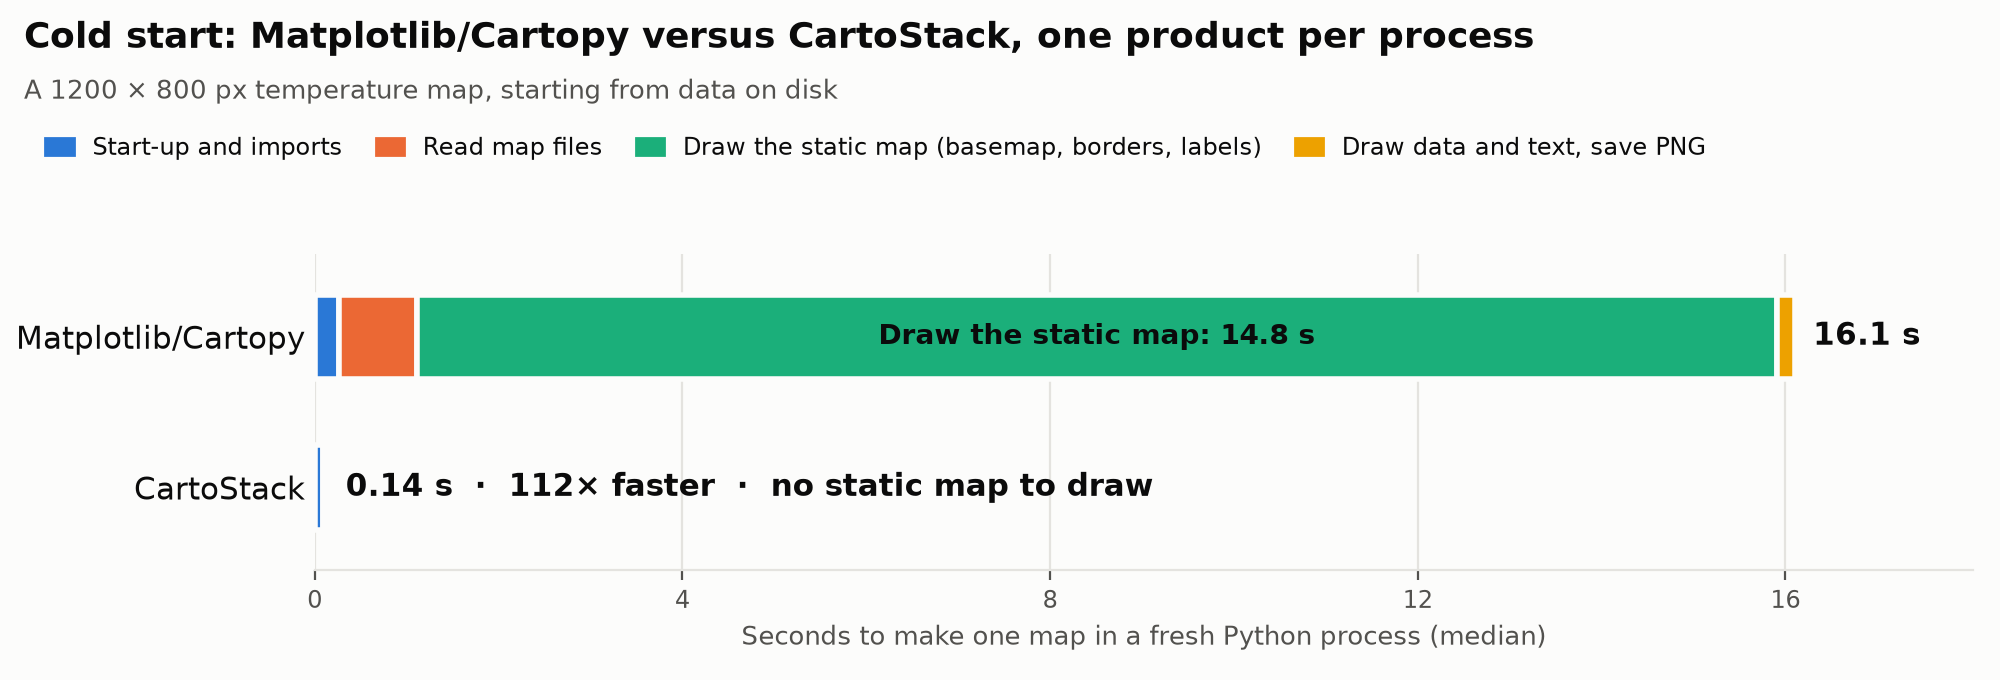
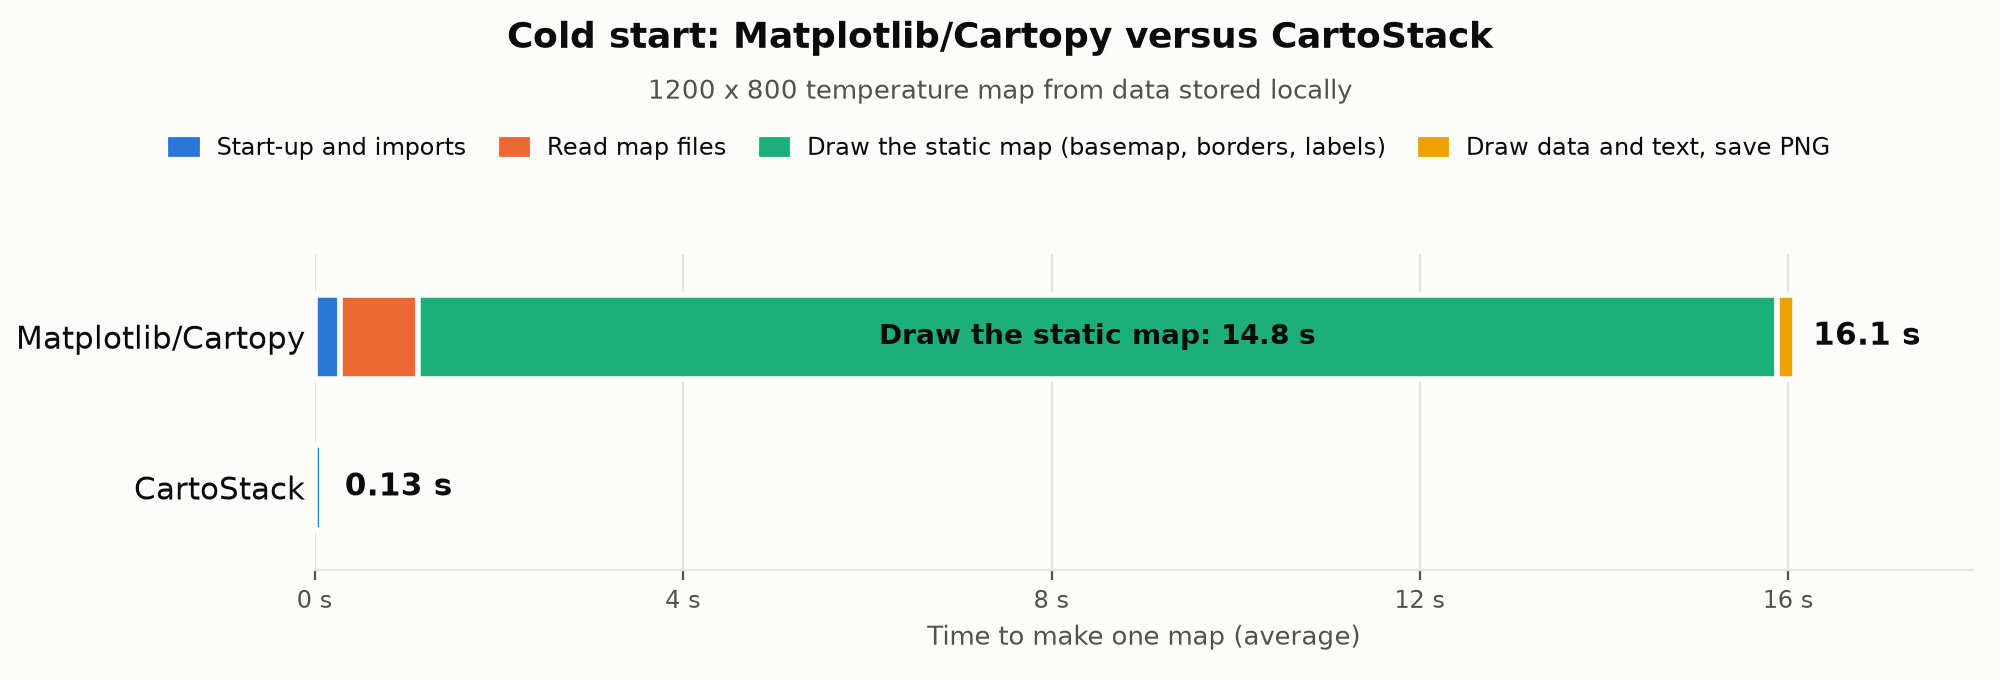
udpated readme graphic

diff --git a/benchmarks/report.py b/benchmarks/report.py
@@ -774,50 +774,81 @@ README_PARTS = (
 )
 
 
+README_RUNS = 10  # the README figure averages exactly this many fresh-process runs per side
+
+
+def mean_phases(rec) -> dict:
+    """Mean over runs of each phase; the phases of a run sum to its total, so these sum to the mean."""
+    return {ph: statistics.mean(r["phases_s"].get(ph, 0.0) + sum(p["phases_s"].get(ph, 0.0) for p in r["products"])
+                                for r in rec["runs"]) for ph in PHASES}
+
+
 def fig_readme_cold(records, out: Path) -> None:
-    """README figure: the grid map's cold product, split into broad parts, with no footer."""
+    """README figures (linear and log axis): the grid map's cold product, mean of 10 runs, no footer."""
     base = pick(records, "cartopy-baseline", "grid", "cold-process")
     pkg = pick(records, "package", "grid", "cold-process")
     if base is None or pkg is None:
         SKIPPED.append("readme_cold_start.png: needs the grid baseline and package cold runs")
         return
-    fig, ax = plt.subplots(figsize=(10, 3.4))
-    ax.set_axisbelow(True)
-    rows = [("Matplotlib/Cartopy", base), ("CartoStack", pkg)]
-    base_total = run_totals(base)["median"]
-    for y, (label, rec) in zip((1, 0), rows, strict=True):
-        phases = median_phases(rec)
-        scale = run_totals(rec)["median"] / sum(phases.values())  # parts sum to the median total
-        left = 0.0
-        for color, (_, keys) in zip(SLOTS, README_PARTS, strict=False):
-            width = sum(phases[k] for k in keys) * scale
-            if width > 0:
-                ax.barh(y, width, left=left, height=0.56, color=color, edgecolor=SURFACE, linewidth=2)
-            if keys == ("static",) and width > base_total * 0.3:
-                ax.text(left + width / 2, y, f"Draw the static map: {width:.1f} s", ha="center",
-                        va="center", fontsize=10, color=INK, fontweight="bold")
-            left += width
-        total = run_totals(rec)["median"]
-        text = f"{total:.1f} s" if rec is base else f"{total:.2f} s  ·  {base_total / total:.0f}× faster  ·  no static map to draw"
-        ax.text(left + base_total * 0.012, y, text, va="center", fontsize=11, color=INK, fontweight="bold")
-    ax.set_yticks([1, 0], [r[0] for r in rows], fontsize=11, color=INK)
-    ax.tick_params(axis="y", length=0)
-    ax.set_xlim(0, base_total * 1.12)
-    ax.set_xticks(np.arange(0, base_total * 1.12, 4))
-    ax.set_ylim(-0.55, 1.55)
-    ax.set_xlabel("Seconds to make one map in a fresh Python process (median)", fontsize=9.5)
-    ax.grid(axis="y", visible=False)
-    ax.spines["left"].set_visible(False)
-    handles = [Patch(color=c, label=name) for c, (name, _) in zip(SLOTS, README_PARTS, strict=False)]
-    fig.legend(handles=handles, loc="upper left", ncol=4, bbox_to_anchor=(0.012, 0.83), fontsize=8.5,
-               handlelength=1.2, columnspacing=1.4)
-    fig.suptitle("Cold start: Matplotlib/Cartopy versus CartoStack, one product per process",
-                 x=0.012, y=0.97, ha="left", fontsize=13, fontweight="bold")
-    fig.text(0.012, 0.865, "A 1200 × 800 px temperature map, starting from data on disk", ha="left",
-             va="center", fontsize=9.5, color=INK_2)
-    fig.tight_layout(rect=(0, 0, 1, 0.76))
-    fig.savefig(out / "readme_cold_start.png", dpi=200)
-    plt.close(fig)
+    if {len(base["runs"]), len(pkg["runs"])} != {README_RUNS}:
+        SKIPPED.append(f"readme_cold_start.png: needs {README_RUNS} cold runs per side, got "
+                       f"{len(base['runs'])} (Cartopy) and {len(pkg['runs'])} (CartoStack)")
+        return
+    rows = [("Matplotlib/Cartopy", mean_phases(base)), ("CartoStack", mean_phases(pkg))]
+    for log in (False, True):
+        fig, ax = plt.subplots(figsize=(10, 3.4 if not log else 3.0))
+        ax.set_axisbelow(True)
+        base_total = sum(rows[0][1].values())
+        for y, (_, phases) in zip((1, 0), rows, strict=True):
+            total = sum(phases.values())
+            if log:
+                # Stacked parts would be distorted on a log axis, so it shows totals as dots.
+                ax.scatter([total], [y], s=110, color=SLOTS[0], edgecolor=SURFACE, linewidth=2, zorder=3)
+                ax.text(total * 1.25, y, fmt_time(total), va="center", fontsize=11, color=INK, fontweight="bold")
+                continue
+            left = 0.0
+            for color, (_, keys) in zip(SLOTS, README_PARTS, strict=False):
+                width = sum(phases[k] for k in keys)
+                if width > 0:
+                    ax.barh(y, width, left=left, height=0.56, color=color, edgecolor=SURFACE, linewidth=2)
+                if keys == ("static",) and width > base_total * 0.3:
+                    ax.text(left + width / 2, y, f"Draw the static map: {width:.1f} s", ha="center",
+                            va="center", fontsize=10, color=INK, fontweight="bold")
+                left += width
+            ax.text(left + base_total * 0.012, y, fmt_time(total), va="center", fontsize=11, color=INK,
+                    fontweight="bold")
+        ax.set_yticks([1, 0], [r[0] for r in rows], fontsize=11, color=INK)
+        ax.tick_params(axis="y", length=0)
+        if log:
+            ax.set_xscale("log")
+            ax.set_xlim(0.05, 50)
+            ticks = [0.1, 1, 10]
+            ax.set_xticks(ticks, [f"{t:g} s" for t in ticks])
+            ax.xaxis.set_minor_formatter(plt.NullFormatter())
+        else:
+            ax.set_xlim(0, base_total * 1.12)
+            ticks = np.arange(0, base_total * 1.12, 4)
+            ax.set_xticks(ticks, [f"{t:g} s" for t in ticks])
+        ax.set_ylim(-0.55, 1.55)
+        ax.set_xlabel("Time to make one map (average)", fontsize=9.5)
+        ax.grid(axis="y", visible=False)
+        ax.spines["left"].set_visible(False)
+        top = 0.76 if not log else 0.8
+        if not log:
+            handles = [Patch(color=c, label=name) for c, (name, _) in zip(SLOTS, README_PARTS, strict=False)]
+            fig.legend(handles=handles, loc="upper center", ncol=4, bbox_to_anchor=(0.5, 0.83), fontsize=8.5,
+                       handlelength=1.2, columnspacing=1.4)
+        fig.suptitle("Cold start: Matplotlib/Cartopy versus CartoStack", x=0.5, y=0.97, ha="center",
+                     fontsize=13, fontweight="bold")
+        fig.text(0.5, 0.865 if not log else 0.85, "1200 x 800 temperature map from data stored locally",
+                 ha="center", va="center", fontsize=9.5, color=INK_2)
+        fig.tight_layout(rect=(0, 0, 1, top))
+        fig.savefig(out / ("readme_cold_start_log.png" if log else "readme_cold_start.png"), dpi=200)
+        plt.close(fig)
+
+
+def fmt_time(seconds: float) -> str:
+    return f"{seconds:.1f} s" if seconds >= 1 else f"{seconds:.2f} s"
 
 
 def fig_speedups(rows, out: Path, stamp: str, sources: list[str]) -> None:
@@ -898,7 +929,8 @@ def write_index(out: Path, stamp: str, inputs: dict, records, rows, checks) -> N
              "(extra PNG encodes, output hashing) and process exit, for every series alike.", "",
              "## Figures", "",
              "- `speedup_summary.png`: speed-up by workload and mode (cold, loop, warm kept separate).",
-             "- `readme_cold_start.png`: the README figure (grid map, one product per fresh process; no footer).",
+             "- `readme_cold_start.png`, `readme_cold_start_log.png`: the README figure (grid map, one product "
+             "per fresh process, mean of 10 runs; no footer), with a linear and a log time axis.",
              "- `cold_phases.png`: one product per fresh process; total time and where it goes.",
              "- `qpf_loop_cumulative.png`: 18 QPF products in one process, cumulative time.",
              "- `qpf_time_vs_polygons.png`: per-product cost against polygon count.",

diff --git a/README.md b/README.md
@@ -2,13 +2,13 @@
 
 CartoStack helps to build the base layers and structure of geoscience maps and figures over and over again without the overhead of redrawing all components every time. 
 
-Weather and climate maps are often produced on a schedule: the coastlines, borders, cities, logo and legend never change, only the data and a timestamp do. Redrawing all of it with Matplotlib and Cartopy every time is slow. CartoStack draws the map **once**, saves it as a layered `.cstack` file, and then builds each new map by swapping in just the new data and stacking the layers into a PNG.
+Weather and climate maps are often produced on a schedule. The coastlines, borders, cities, logo, and legend never change. Frequently on the data, title, and/or timestamp change. Redrawing all of it with Matplotlib and Cartopy every time is slow. CartoStack draws the map once, saves it as a layered `.cstack` file, and then builds each new map by swapping in only the new data and stacking the layers into a PNG.
 
-The stack can be imagined as transparent sheets: the basemap is drawn ahead of time, and on every run only the data sheet and the title are replaced. Producing a map needs only **NumPy and Pillow**, so it is quick to start, light to install, and never touches Cartopy, shapefiles or Natural Earth data again.
+The stack can be imagined as transparent sheets where the basemap is drawn ahead of time, and on every run only the data sheet and title are replaced. Producing a map needs only **NumPy and Pillow**, so it is quick to start, lightweight, and does not require Cartopy, shapefiles, or Natural Earth data repeatedly.
 
-![Time to make one map in a fresh process: Matplotlib/Cartopy 16.1 s, most of it drawing the static map, versus CartoStack 0.14 s](docs/images/cold_start.png)
+![Time to make one map in a fresh Python process: Matplotlib/Cartopy 16.1 s, most of it drawing the static map, versus CartoStack 0.13 s](docs/images/cold_start.png)
 
-Making one map in a fresh Python process (as a scheduled job does), starting from data on disk, takes about **0.14 s instead of 16 s**. 99.9 % of the output's pixels are within 32 of 255 color levels of the full Cartopy render; the largest differences are along text edges. The CartoStack time does not include the one-time step of building the `.cstack` file from the Matplotlib/Cartopy figure (about 18 s for this map, roughly one ordinary render). That step is done once per map layout and reused for every later map. Timings are medians of 5–7 fresh-process runs on an Apple M3 Pro.
+Making one map in a fresh Python process (as a scheduled job does), starting from data on disk, is quick. In the figure above the synthetic 1200x800 pixel temperature map took 0.13 s with CartoStack instead of 16 s with Matplotlib. The CartoStack time does not include the one-time step of building the `.cstack` file from the Matplotlib/Cartopy figure (about 18 s for this map, roughly one ordinary render). That step is done once per map layout and reused for every later map. Times listed in the figure are the average of 10 cold start runs on an Apple M3 Pro.
 
 ## Install
 
